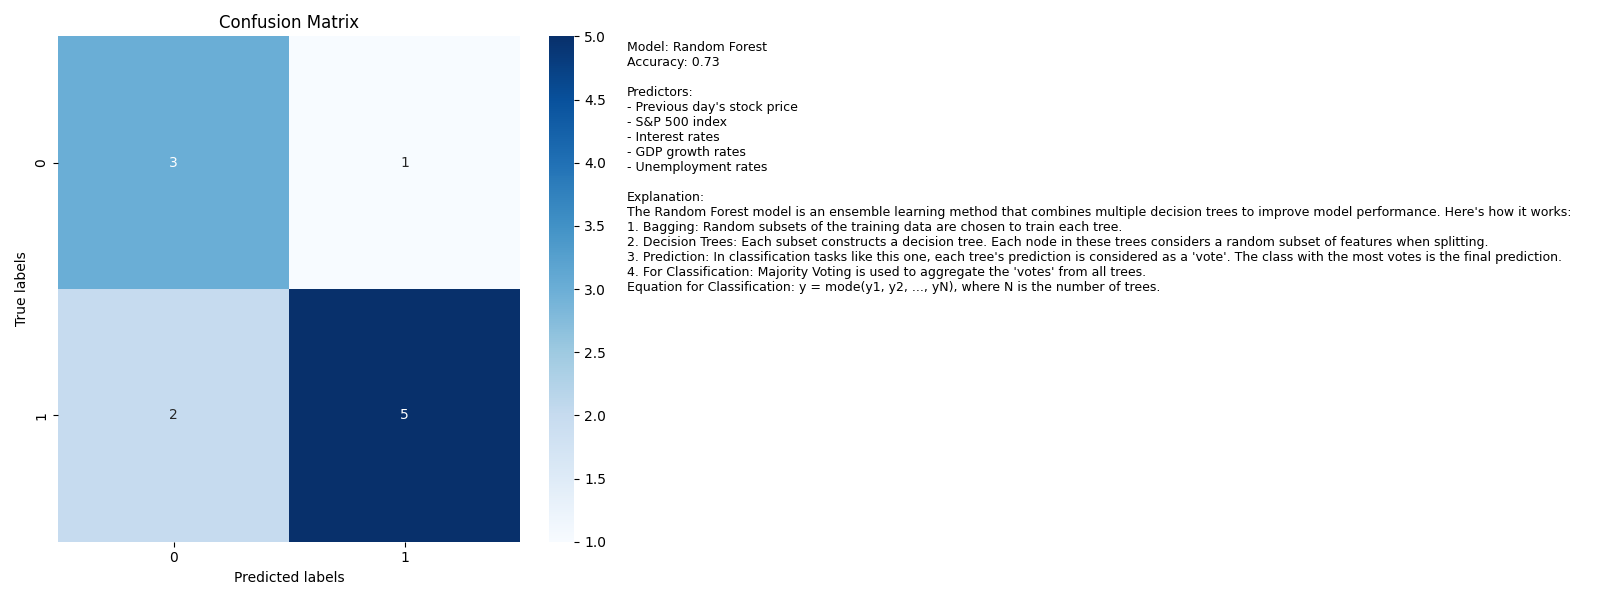
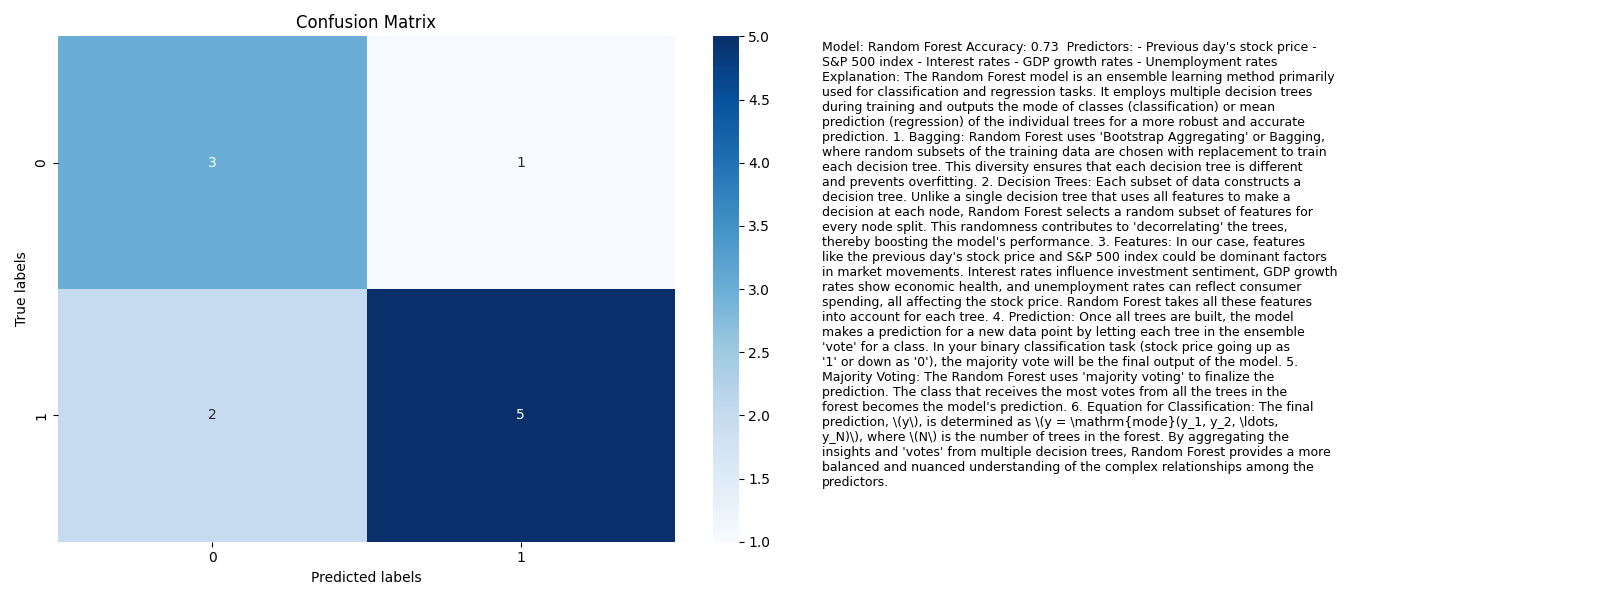
adding random forest model

Changed region(s): [[0.3125, 0.06, 0.9688, 0.93], [0.125, 0.03, 0.2812, 0.99]]

diff --git a/1. supervised_learning_models/4. random_forest_model.py b/1. supervised_learning_models/4. random_forest_model.py
@@ -7,6 +7,7 @@ from sklearn.ensemble import RandomForestClassifier
 from sklearn.model_selection import train_test_split
 from sklearn.metrics import accuracy_score, confusion_matrix
 from fredapi import Fred
+from textwrap import wrap
 
 # Fetch stock data
 def fetch_data(ticker, start_date, end_date):
@@ -85,23 +86,26 @@ if __name__ == "__main__":
         "Explanation:\n"
         "The Random Forest model is an ensemble learning method primarily used for classification and regression tasks. "
         "It employs multiple decision trees during training and outputs the mode of classes (classification) or mean prediction (regression) of the individual trees for a more robust and accurate prediction.\n"
-        "\n1. Bagging: Random Forest uses 'Bootstrap Aggregating' or Bagging, where random subsets of the training data are chosen with replacement to train each decision tree. "
+        "1. Bagging: Random Forest uses 'Bootstrap Aggregating' or Bagging, where random subsets of the training data are chosen with replacement to train each decision tree. "
         "This diversity ensures that each decision tree is different and prevents overfitting.\n"
-        "\n2. Decision Trees: Each subset of data constructs a decision tree. Unlike a single decision tree that uses all features to make a decision at each node, "
+        "2. Decision Trees: Each subset of data constructs a decision tree. Unlike a single decision tree that uses all features to make a decision at each node, "
         "Random Forest selects a random subset of features for every node split. This randomness contributes to 'decorrelating' the trees, thereby boosting the model's performance.\n"
-        "\n3. Features: In our case, features like the previous day's stock price and S&P 500 index could be dominant factors in market movements. "
+        "3. Features: In our case, features like the previous day's stock price and S&P 500 index could be dominant factors in market movements. "
         "Interest rates influence investment sentiment, GDP growth rates show economic health, and unemployment rates can reflect consumer spending, all affecting the stock price. "
         "Random Forest takes all these features into account for each tree.\n"
-        "\n4. Prediction: Once all trees are built, the model makes a prediction for a new data point by letting each tree in the ensemble 'vote' for a class. "
+        "4. Prediction: Once all trees are built, the model makes a prediction for a new data point by letting each tree in the ensemble 'vote' for a class. "
         "In your binary classification task (stock price going up as '1' or down as '0'), the majority vote will be the final output of the model.\n"
-        "\n5. Majority Voting: The Random Forest uses 'majority voting' to finalize the prediction. "
+        "5. Majority Voting: The Random Forest uses 'majority voting' to finalize the prediction. "
         "The class that receives the most votes from all the trees in the forest becomes the model's prediction.\n"
-        "\n6. Equation for Classification: The final prediction, \(y\), is determined as \(y = \mathrm{mode}(y_1, y_2, \ldots, y_N)\), where \(N\) is the number of trees in the forest.\n"
-        "\nBy aggregating the insights and 'votes' from multiple decision trees, Random Forest provides a more balanced and nuanced understanding of the complex relationships among the predictors.\n"
+        "6. Equation for Classification: The final prediction, \(y\), is determined as \(y = \\mathrm{mode}(y_1, y_2, \\ldots, y_N)\), where \(N\) is the number of trees in the forest.\n"
+        "By aggregating the insights and 'votes' from multiple decision trees, Random Forest provides a more balanced and nuanced understanding of the complex relationships among the predictors."
     )
 
+    # Wrap the text to make it fit into the figure neatly
+    wrapped_text = "\n".join(wrap(explanation, width=80))  # 60 characters per line, adjust as needed
+
     ax2.axis('off')
-    ax2.text(0.01, 0.99, explanation, fontsize=9, va='top')  # Aligns text at top left corner with a fontsize of 9
+    ax2.text(0.01, 0.99, wrapped_text, fontsize=9, va='top')  # Aligns text at top left corner with a fontsize of 10
 
     plt.tight_layout()
     plt.savefig('random_forest_summary_with_explanation.png')
